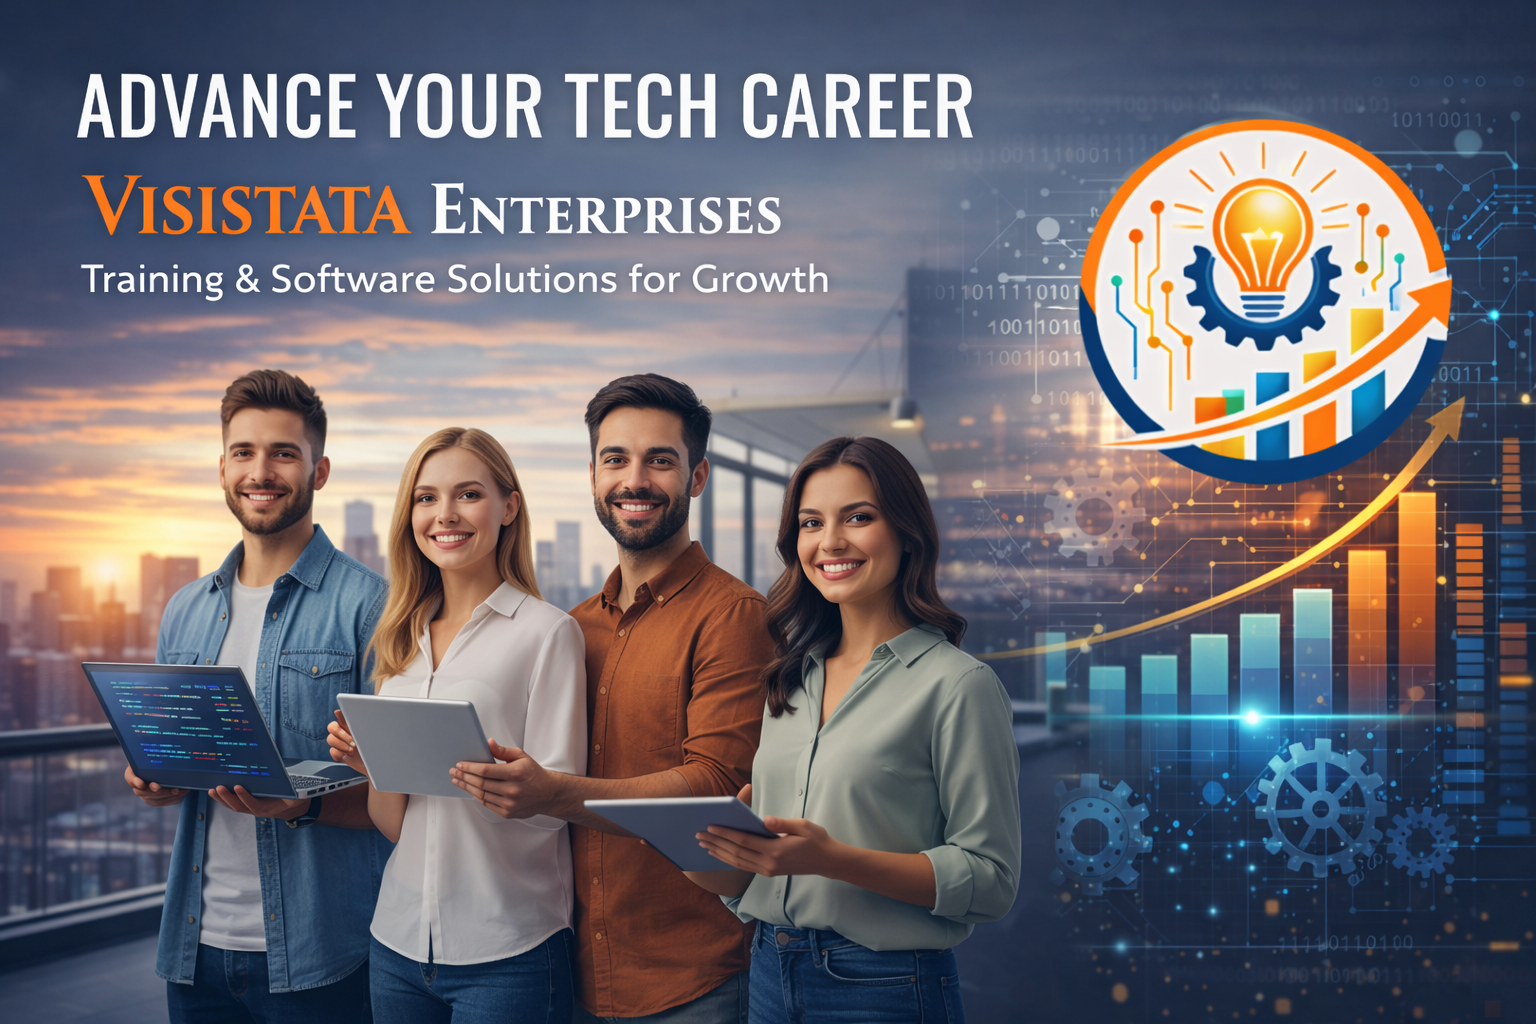
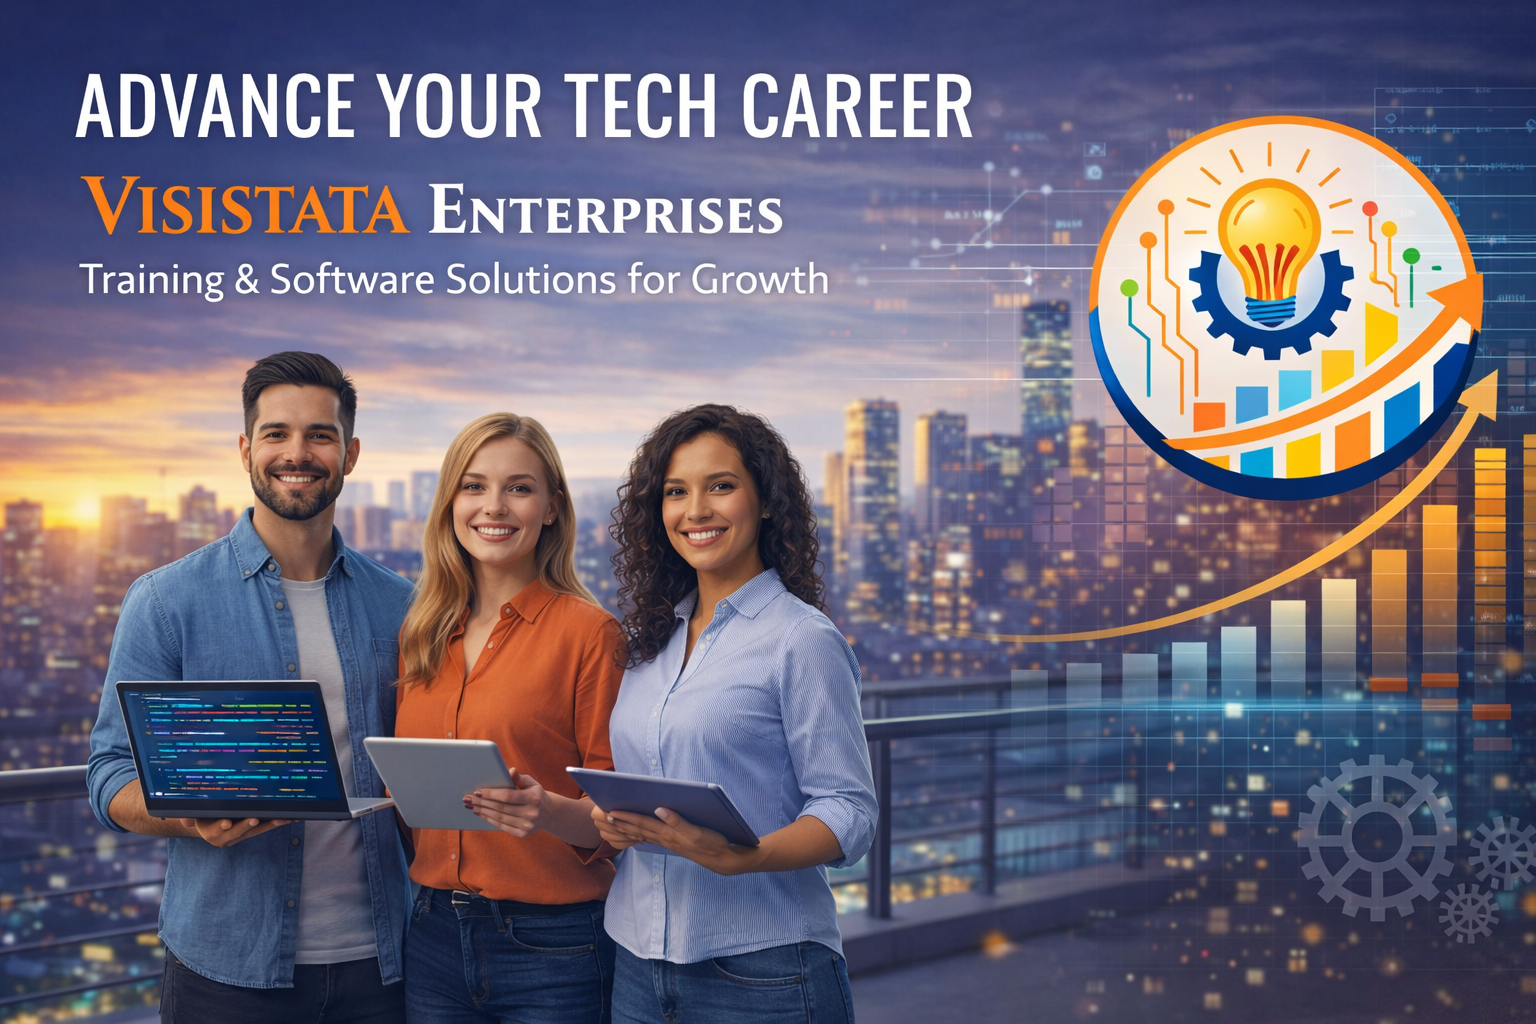
updated images & Contact

diff --git a/src/components/WhatsAppButton.jsx b/src/components/WhatsAppButton.jsx
@@ -76,78 +76,78 @@
 
 // export default WhatsAppButton;
 
-const WhatsAppButton = () => {
-  const phoneNumber = "919035920555";
-  const message = encodeURIComponent("Hi, I’m interested in your services");
+// const WhatsAppButton = () => {
+//   const phoneNumber = "919035920555";
+//   const message = encodeURIComponent("Hi, I’m interested in your services");
 
-  return (
-    <div className="fixed bottom-0 right-0 m-3 md:m-4 z-5">
-      <a
-        href={`https://wa.me/${phoneNumber}?text=${message}`}
-        target="_blank"
-        rel="noopener noreferrer"
-        aria-label="Contact us on WhatsApp"
-        title="Chat with us on WhatsApp"
-        className="
-          flex align-items-center justify-content-center
-          border-circle md:border-round
-          shadow-4
-          transition-all transition-duration-300
-          no-underline
-        "
-        style={{
-          backgroundColor: "#25D366",
-          height: "3rem",
-          minWidth: "3rem",
-          padding: "0 0.75rem",
-        }}
-      >
-        {/* WhatsApp Icon */}
-        <svg
-          xmlns="http://www.w3.org/2000/svg"
-          viewBox="0 0 64 64"
-          width="24"
-          height="24"
-        >
-          <defs>
-            <linearGradient
-              id="whatsapp-gradient"
-              x1="31.8589"
-              y1="62.1766"
-              x2="31.8589"
-              y2="1.10154"
-              gradientUnits="userSpaceOnUse"
-            >
-              <stop stopColor="#20B038" />
-              <stop offset="1" stopColor="#60D66A" />
-            </linearGradient>
+//   return (
+//     <div className="fixed bottom-0 right-0 m-3 md:m-4 z-5">
+//       <a
+//         href={`https://wa.me/${phoneNumber}?text=${message}`}
+//         target="_blank"
+//         rel="noopener noreferrer"
+//         aria-label="Contact us on WhatsApp"
+//         title="Chat with us on WhatsApp"
+//         className="
+//           flex align-items-center justify-content-center
+//           border-circle md:border-round
+//           shadow-4
+//           transition-all transition-duration-300
+//           no-underline
+//         "
+//         style={{
+//           backgroundColor: "#25D366",
+//           height: "3rem",
+//           minWidth: "3rem",
+//           padding: "0 0.75rem",
+//         }}
+//       >
+//         {/* WhatsApp Icon */}
+//         <svg
+//           xmlns="http://www.w3.org/2000/svg"
+//           viewBox="0 0 64 64"
+//           width="24"
+//           height="24"
+//         >
+//           <defs>
+//             <linearGradient
+//               id="whatsapp-gradient"
+//               x1="31.8589"
+//               y1="62.1766"
+//               x2="31.8589"
+//               y2="1.10154"
+//               gradientUnits="userSpaceOnUse"
+//             >
+//               <stop stopColor="#20B038" />
+//               <stop offset="1" stopColor="#60D66A" />
+//             </linearGradient>
 
-            <clipPath id="whatsapp-clip">
-              <rect width="64" height="64" fill="white" />
-            </clipPath>
-          </defs>
+//             <clipPath id="whatsapp-clip">
+//               <rect width="64" height="64" fill="white" />
+//             </clipPath>
+//           </defs>
 
-          <g clipPath="url(#whatsapp-clip)">
-            <path
-              d="M1.45825 62.1766L5.7533 46.4939C3.10353 41.9042 1.71007 36.6969 1.71174 31.3639C1.71869 14.6772 15.2993 1.10144 31.9856 1.10144C48.6711 1.10144 62.2595 14.6772 62.2595 31.3876C62.2595 48.0747 48.6711 61.6516 31.9868 61.6516C26.9069 61.65 21.9286 60.3782 17.507 57.9684L1.45825 62.1766Z"
-              fill="url(#whatsapp-gradient)"
-            />
-            <path
-              fill="white"
-              fillRule="evenodd"
-              d="M24.1532 18.2486C23.5663 16.9437 22.9483 16.9176 22.3899 16.8947C20.3659 16.8764 18.799 17.8568 18.0806 18.6409C16.0562 20.5363 16.0562 24.3914 16.0562 24.3914C16.0562 28.2468 18.8643 31.9721 19.2557 32.4953C24.6764 41.1818 32.6408 44.3225 39.2599 46.9327C43.4803 46.1523 46.6794 44.3878 47.3325 42.558C47.9855 40.7287 47.9855 39.1606 47.7896 38.8328C46.2876 37.5267 41.6517 35.6308 40.9334 35.3696C39.1701 35.7622 38.6477 36.5459 36.6897 38.8328C35.7755 39.4217 34.2081 38.6369 31.6845 37.8103C26.3613 33.0642 24.3315 29.7149 24.3315 29.7149C23.8744 28.9312 24.6756 28.1161 25.8511 26.7439C26.3727 25.9598 26.7645 24.4566 26.5686 24.0647C26.3727 23.6729 24.8499 19.798 24.1532 18.2486Z"
-              clipRule="evenodd"
-            />
-          </g>
-        </svg>
+//           <g clipPath="url(#whatsapp-clip)">
+//             <path
+//               d="M1.45825 62.1766L5.7533 46.4939C3.10353 41.9042 1.71007 36.6969 1.71174 31.3639C1.71869 14.6772 15.2993 1.10144 31.9856 1.10144C48.6711 1.10144 62.2595 14.6772 62.2595 31.3876C62.2595 48.0747 48.6711 61.6516 31.9868 61.6516C26.9069 61.65 21.9286 60.3782 17.507 57.9684L1.45825 62.1766Z"
+//               fill="url(#whatsapp-gradient)"
+//             />
+//             <path
+//               fill="white"
+//               fillRule="evenodd"
+//               d="M24.1532 18.2486C23.5663 16.9437 22.9483 16.9176 22.3899 16.8947C20.3659 16.8764 18.799 17.8568 18.0806 18.6409C16.0562 20.5363 16.0562 24.3914 16.0562 24.3914C16.0562 28.2468 18.8643 31.9721 19.2557 32.4953C24.6764 41.1818 32.6408 44.3225 39.2599 46.9327C43.4803 46.1523 46.6794 44.3878 47.3325 42.558C47.9855 40.7287 47.9855 39.1606 47.7896 38.8328C46.2876 37.5267 41.6517 35.6308 40.9334 35.3696C39.1701 35.7622 38.6477 36.5459 36.6897 38.8328C35.7755 39.4217 34.2081 38.6369 31.6845 37.8103C26.3613 33.0642 24.3315 29.7149 24.3315 29.7149C23.8744 28.9312 24.6756 28.1161 25.8511 26.7439C26.3727 25.9598 26.7645 24.4566 26.5686 24.0647C26.3727 23.6729 24.8499 19.798 24.1532 18.2486Z"
+//               clipRule="evenodd"
+//             />
+//           </g>
+//         </svg>
 
-        {/* Desktop Text */}
-        <span className="hidden md:inline-block text-white font-medium text-sm ml-2 white-space-nowrap">
-          Chat with us
-        </span>
-      </a>
-    </div>
-  );
-};
+//         {/* Desktop Text */}
+//         <span className="hidden md:inline-block text-white font-medium text-sm ml-2 white-space-nowrap">
+//           Chat with us
+//         </span>
+//       </a>
+//     </div>
+//   );
+// };
 
-export default WhatsAppButton;
+// export default WhatsAppButton;

diff --git a/src/pages/Contact.jsx b/src/pages/Contact.jsx
@@ -137,14 +137,14 @@ function Contact() {
                   <div>
                     <p class="font-semibold">Email</p>
                     <a
-                      href="mailto:hello@drcoding.com"
+                      href="mailto:supp_visistata@outlook.com"
                       className="text-muted-foreground"
                     >
-                      deeprootedlearnings@gmail.com
+                      supp_visistata@outlook.com
                     </a>
                   </div>
                 </div>
-                <div className="flex gap-3 mt-4 mb-4">
+                {/* <div className="flex gap-3 mt-4 mb-4">
                   <div className="contactIcon-background border-circle ">
                     <svg
                       xmlns="http://www.w3.org/2000/svg"
@@ -169,9 +169,9 @@ function Contact() {
                     >
                       (+91) &nbsp; 9035920555
                     </a>
-                  </div>
-                </div>
-                <div className="flex gap-3">
+                  </div> */}
+                {/* </div> */}
+                <div className="flex gap-3 mt-4 mb-4">
                   <div className="contactIcon-background border-circle ">
                     <svg
                       xmlns="http://www.w3.org/2000/svg"
@@ -189,13 +189,15 @@ function Contact() {
                       <circle cx="12" cy="10" r="3"></circle>
                     </svg>
                   </div>
+
                   <div>
                     <p class="font-semibold">Office Address</p>
                     <a
-                      href="mailto:hello@drcoding.com"
+                      href="mailto:supp_visistata@outlook.com"
                       className="text-muted-foreground"
                     >
-                      No.3152, 2nd Main, 9th Cross, GayathriNagar, Bangalore-21
+                       #63, Muddinapalya Main Road, Muneshwara Layout, 
+                          Gidadakonenahalli, Bengaluru, Karnataka 560091
                     </a>
                   </div>
                 </div>
@@ -222,7 +224,7 @@ function Contact() {
                     id="fullname"
                     name="fullname"
                     aria-describedby="fullname-help"
-                    placeholder="Rahul Kumar"
+                    placeholder="Shiva"
                     value={formData.fullname}
                     onChange={handleChange}
                   />
@@ -236,7 +238,7 @@ function Contact() {
                     id="email"
                     name="email"
                     aria-describedby="email-help"
-                    placeholder="rahul@gmail.com"
+                    placeholder="shiva@gmail.com"
                     value={formData.email}
                     onChange={handleChange}
                   />

diff --git a/src/components/Navbar.jsx b/src/components/Navbar.jsx
@@ -55,6 +55,22 @@ const Navbar = () => {
     {
       label: "Download Brochure",
       items: [
+         {
+          label: "MERN Full Stack",
+          command: () =>
+            downloadBrochure(
+              "/brochures/mern-full-stack.xlsx",
+              "MERN-Full-Stack-Brochure.xlsx",
+            ),
+        },
+         {
+          label: "Python Full Stack",
+          command: () =>
+            downloadBrochure(
+              "/brochures/python-full-stack.xlsx",
+              "Python-Full-Stack-Brochure.xlsx",
+            ),
+        },
         {
           label: "Data Analyst",
           command: () =>
@@ -71,38 +87,24 @@ const Navbar = () => {
               "Data-Science-Brochure.xlsx",
             ),
         },
-        {
-          label: "React JS",
-          command: () =>
-            downloadBrochure(
-              "/brochures/react-js.xlsx",
-              "React-JS-Brochure.xlsx",
-            ),
-        },
-        {
-          label: "MERN Full Stack",
-          command: () =>
-            downloadBrochure(
-              "/brochures/mern-full-stack.xlsx",
-              "MERN-Full-Stack-Brochure.xlsx",
-            ),
-        },
-        {
-          label: "Python Full Stack",
-          command: () =>
-            downloadBrochure(
-              "/brochures/python-full-stack.xlsx",
-              "Python-Full-Stack-Brochure.xlsx",
-            ),
-        },
-        {
-          label: "Automation Testing",
-          command: () =>
-            downloadBrochure(
-              "/brochures/automation-testing.xlsx",
-              "Automation-Testing-Brochure.xlsx",
-            ),
-        },
+        // {
+        //   label: "React JS",
+        //   command: () =>
+        //     downloadBrochure(
+        //       "/brochures/react-js.xlsx",
+        //       "React-JS-Brochure.xlsx",
+        //     ),
+        // },
+       
+       
+        // {
+        //   label: "Automation Testing",
+        //   command: () =>
+        //     downloadBrochure(
+        //       "/brochures/automation-testing.xlsx",
+        //       "Automation-Testing-Brochure.xlsx",
+        //     ),
+        // },
       ],
     },
   ];

diff --git a/src/components/Footer.jsx b/src/components/Footer.jsx
@@ -19,25 +19,25 @@ const Footer = () => {
               navigate("/");
             }}
           >
-            Deep Root
+            Visistata
           </span>
           <p className="text-sm	mt-3  text-muted-foreground">
-            Code Root offers expert-led courses in software development and
+            Visistata offers expert-led courses in software development and
             testing to help you land your next role in tech.
           </p>
         </div>
         <div className="md:col-2 mx-auto sm:col-5 col-5">
           <h4 className="font-semibold	space-grotesk">Courses</h4>
           <p className="text-sm	my-1  text-muted-foreground">Web Development</p>
-          <p className="text-sm	my-1  text-muted-foreground">Manual Testing</p>
-          <p className="text-sm	my-1  text-muted-foreground">
-            Automation Testing
-          </p>
-          <p className="text-sm	my-1  text-muted-foreground">
-            Python Full Stack
-          </p>
           <p className="text-sm	my-1  text-muted-foreground">MERN Full Stack</p>
-          <p className="text-sm	my-1  text-muted-foreground">All Courses</p>
+          <p className="text-sm	my-1  text-muted-foreground">
+           Python Full Stack 
+          </p>
+          <p className="text-sm	my-1  text-muted-foreground">
+           IOT & Smart Systems 
+          </p>
+          <p className="text-sm	my-1  text-muted-foreground">Drone Techonolgy</p>
+          <p className="text-sm	my-1  text-muted-foreground">Career Development</p>
         </div>
         <div className="md:col-2 mx-auto sm:col-5 col-5">
           <h4 className="font-semibold	space-grotesk">Services</h4>

diff --git a/src/components/HeroSection.jsx b/src/components/HeroSection.jsx
@@ -7,9 +7,9 @@ function HeroSection() {
     <div className="md:py-0 sm:py-2 w-12">
       <div className="grid col-10 m-auto gap-12">
         <section className="hero col-12 md:col-6">
-          <h1 className="text-6xl space-grotesk">Advance Your Tech Career.</h1>
+          <h1 className="text-6xl space-grotesk">Empowering Careers Through Technology.</h1>
           <p className="text-xl text-muted-foreground">
-            Deep Root provides career-focused training in software development
+            Visistata provides career-focused training in software development
             and quality assurance. Our expert-led courses are designed to equip
             you with the practical skills needed to excel in the tech industry.
           </p>

diff --git a/src/pages/About.jsx b/src/pages/About.jsx
@@ -12,10 +12,10 @@ function About() {
           </section>
           <section className="col-12 md:col-6 pl-4">
             <h1 className="md:text-6xl text-4xl mb-3 space-grotesk">
-              About Deep Root
+              About Visistata
             </h1>
             <p className="mb-3 text-muted-foreground">
-              Deep Rooted Software Training & Development Services was founded
+              Visistata Software Training & Development Services was founded
               with a simple mission: to bridge the gap between aspiring IT
               professionals and their dream careers. We saw a need for
               high-quality, practical, and affordable online education that

diff --git a/src/App.jsx b/src/App.jsx
@@ -2,7 +2,7 @@ import "./App.css";
 import { BrowserRouter, Routes, Route, Navigate } from "react-router-dom";
 import { lazy, Suspense } from "react";
 import Navbar from "./components/Navbar";
-import WhatsAppButton from "./components/WhatsAppButton";
+// import WhatsAppButton from "./components/WhatsAppButton";
 
 // ✅ Lazy load all pages
 const Home = lazy(() => import("./pages/Home"));
@@ -49,7 +49,7 @@ function App() {
   return (
     <BrowserRouter>
       <Navbar />
-      <WhatsAppButton />
+      {/* <WhatsAppButton /> */}
       <Suspense fallback={<Loader />}>
         <Routes>
           <Route path="/" element={<Home />} />
